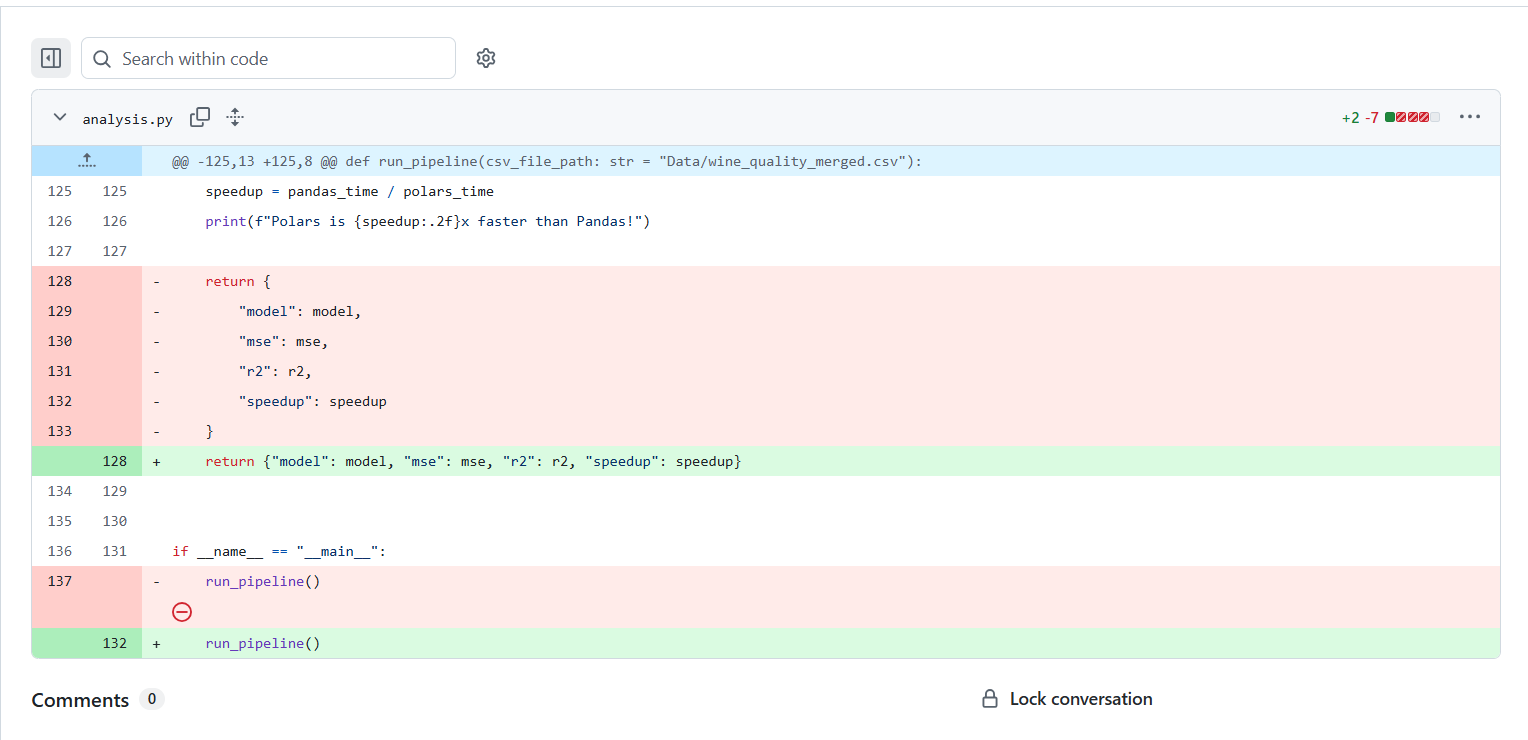
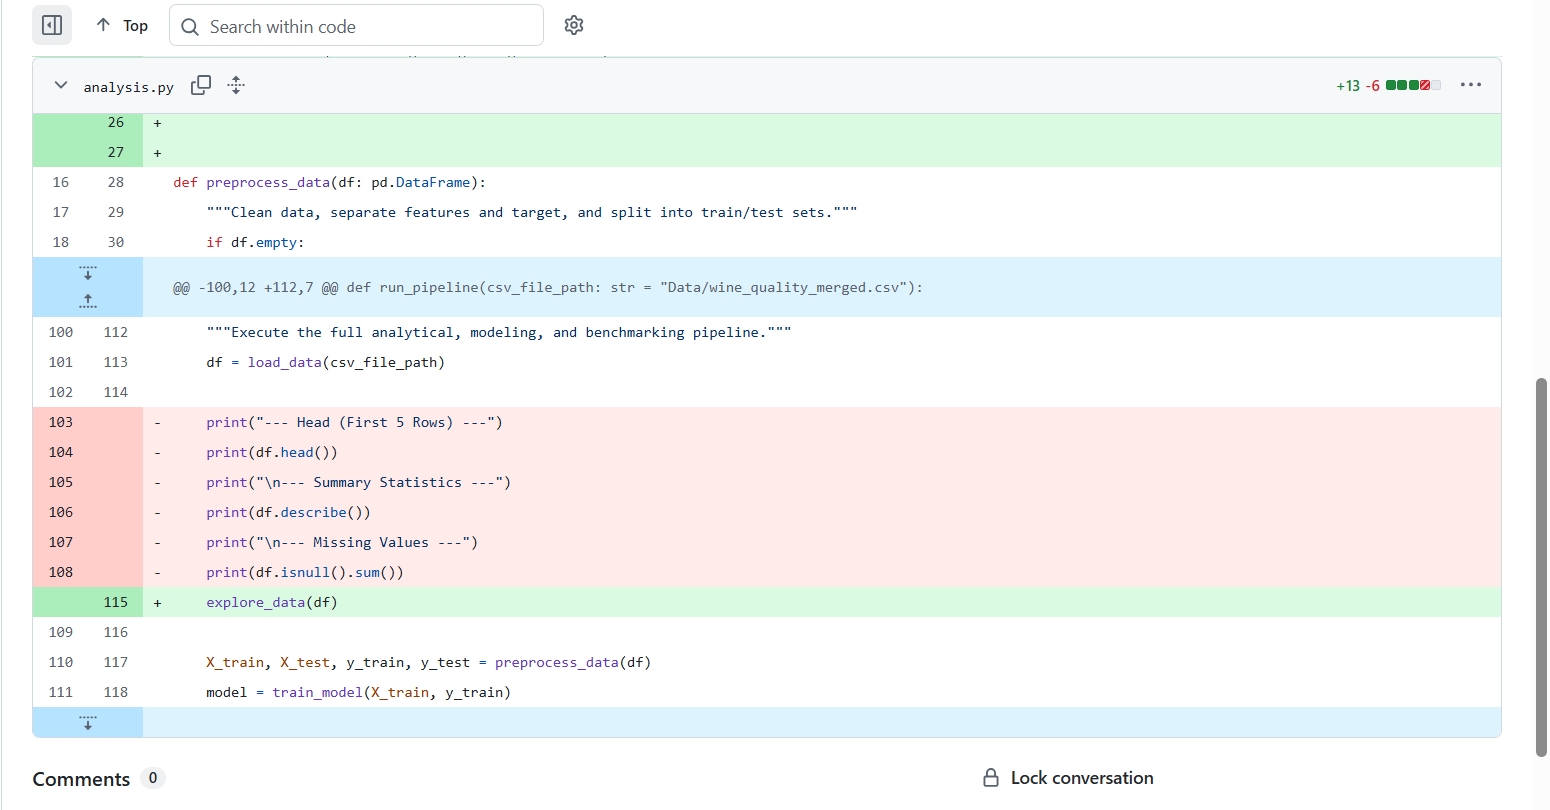
docs: document PEP 8 formatting and modular refactoring with diff screenshots

diff --git a/README.md b/README.md
@@ -29,19 +29,31 @@ docker images
 # Inspect active and completed container executions
 docker ps -a
 ```
-## Code Quality & PEP 8 Refactoring
+## Code Quality & Refactoring
 
-To ensure maintainability, readability, and adherence to industry-standard Python practices, the codebase was audited and refactored using static analysis and automated formatting tools:
+### 1. What You Changed
+- **Modularized Exploratory Data Analysis (EDA):** Extracted inline data inspection logic (`head()`, `describe()`, and `isnull()`) from `run_pipeline` into a dedicated `explore_data(df: pd.DataFrame)` helper function with automated missing value calculation.
+- **Enforced PEP 8 & Formatting:** Standardized formatting, line lengths, and dictionary structures across `analysis.py` using `black` and verified zero remaining linting errors via `flake8`.
 
-- **Linting (`flake8`):** Identified initial style violations including line-length constraints (`E501`) and missing end-of-file newlines (`W292`).
-- **Formatting (`black`):** Standardized formatting across the pipeline, structuring multi-line expressions and dictionaries to conform strictly to PEP 8.
-- **Verification:** Post-formatting audits with `flake8` verified zero remaining syntax, style, or linting errors.
+### 2. Why You Changed It
+- **Separation of Concerns:** `run_pipeline` should orchestrate high-level execution rather than directly executing granular print diagnostics. Extracting `explore_data` improves modularity, testability, and code readability.
+- **Maintainability:** Adhering to PEP 8 standards ensures clean collaboration and avoids regressions.
 
-### Refactoring Verification (GitHub Diff)
-The commit diff below illustrates the automated refactoring applied to `analysis.py`:
+### 3. How Verification Was Performed
+- **Automated Unit & System Tests:** Ran test suite via `pytest` to confirm all assertions and data preprocessing steps remain fully functional.
+- **Linter Audits:** Verified cleanly with `flake8 --max-line-length=88 analysis.py` with zero reported errors.
+- **Docker Execution:** Successfully executed containerized pipeline runs inside Docker.
 
+### GitHub Refactoring Commit Diffs
+
+#### Meaningful Code Refactoring (Extract Function)
 <p align="center">
-  <img src="code_refactor_diff.png" alt="PEP 8 Refactor Diff" width="800"/>
+  <img src="code_refactor_diff.png" alt="Meaningful Refactor Diff" width="800"/>
+</p>
+
+#### PEP 8 Automated Formatting
+<p align="center">
+  <img src="pep8_format_diff.png" alt="PEP 8 Formatting Diff" width="800"/>
 </p>
 
 # Wine Quality Analysis — Series 2 (Week 2)
